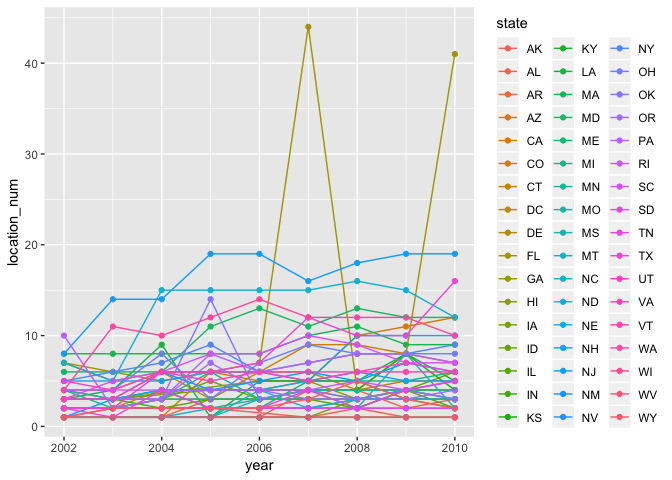
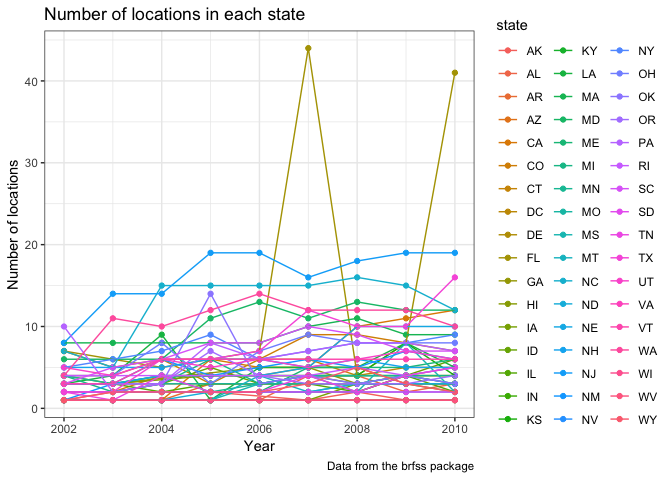
change properties of tables

diff --git a/p8105_hw3_ym2715.md b/p8105_hw3_ym2715.md
@@ -28,16 +28,18 @@ brfss_overall_health %>%
   mutate(location_num = n()) %>% 
   distinct(state, location_num) %>% 
   filter(location_num == 7) %>% 
-  knitr::kable()  
+  knitr::kable(col.names = c("State", "Number of locations"), align = "c")  
 ```
 
-| state |  location\_num|
-|:------|--------------:|
-| CT    |              7|
-| FL    |              7|
-| NC    |              7|
+| State | Number of locations |
+|:-----:|:-------------------:|
+|   CT  |          7          |
+|   FL  |          7          |
+|   NC  |          7          |
 
 In 2002, CT, FL, NC were observed at 7 locations.
+
+Question 2
 
 ``` r
 spaghetti = brfss_overall_health %>% 
@@ -49,10 +51,19 @@ spaghetti = brfss_overall_health %>%
 
 ggplot(spaghetti, aes(x= year, y = location_num, color = state)) +
   geom_point() +
-  geom_line()
+  geom_line() +
+  labs(
+    title = "Number of locations in each state",
+    y = "Number of locations",
+    x = "Year",
+    caption = "Data from the brfss package"
+  ) +
+  theme_bw()
 ```
 
 ![](p8105_hw3_ym2715_files/figure-markdown_github/problem1_q2-1.png)
+
+Question 3
 
 ``` r
 ny_response = brfss_overall_health %>% 
@@ -63,23 +74,131 @@ ny_mean = aggregate(ny_response[, 6], list(ny_response$location_desc), mean) %>%
   rename(mean = data_value, location = Group.1)
 ny_sd = aggregate(ny_response[, 6], list(ny_response$location_desc), sd) %>% 
   rename(sd = data_value, location = Group.1)
-ny_mean_sd = left_join(ny_mean, ny_sd, by = "location")
+ny_mean_sd = left_join(ny_mean, ny_sd, by = "location") %>% 
+  mutate(mean = round(mean, digits = 1), sd = round(sd, digits = 2))
 
-knitr::kable(ny_mean_sd)
+knitr::kable(ny_mean_sd, format = "html", align = "l", caption = "Mean and sd of “Excellent” responses across locations in NY State")
 ```
 
-| location                |      mean|         sd|
-|:------------------------|---------:|----------:|
-| NY - Bronx County       |  17.60000|         NA|
-| NY - Erie County        |  17.20000|         NA|
-| NY - Kings County       |  20.36667|  1.7672955|
-| NY - Monroe County      |  22.40000|         NA|
-| NY - Nassau County      |  24.93333|  2.8219379|
-| NY - New York County    |  27.50000|  1.5394804|
-| NY - Queens County      |  19.63333|  1.3576941|
-| NY - Suffolk County     |  24.10000|  3.2787193|
-| NY - Westchester County |  26.45000|  0.6363961|
-
+<table>
+<caption>
+Mean and sd of “Excellent” responses across locations in NY State
+</caption>
+<thead>
+<tr>
+<th style="text-align:left;">
+location
+</th>
+<th style="text-align:left;">
+mean
+</th>
+<th style="text-align:left;">
+sd
+</th>
+</tr>
+</thead>
+<tbody>
+<tr>
+<td style="text-align:left;">
+NY - Bronx County
+</td>
+<td style="text-align:left;">
+17.6
+</td>
+<td style="text-align:left;">
+NA
+</td>
+</tr>
+<tr>
+<td style="text-align:left;">
+NY - Erie County
+</td>
+<td style="text-align:left;">
+17.2
+</td>
+<td style="text-align:left;">
+NA
+</td>
+</tr>
+<tr>
+<td style="text-align:left;">
+NY - Kings County
+</td>
+<td style="text-align:left;">
+20.4
+</td>
+<td style="text-align:left;">
+1.77
+</td>
+</tr>
+<tr>
+<td style="text-align:left;">
+NY - Monroe County
+</td>
+<td style="text-align:left;">
+22.4
+</td>
+<td style="text-align:left;">
+NA
+</td>
+</tr>
+<tr>
+<td style="text-align:left;">
+NY - Nassau County
+</td>
+<td style="text-align:left;">
+24.9
+</td>
+<td style="text-align:left;">
+2.82
+</td>
+</tr>
+<tr>
+<td style="text-align:left;">
+NY - New York County
+</td>
+<td style="text-align:left;">
+27.5
+</td>
+<td style="text-align:left;">
+1.54
+</td>
+</tr>
+<tr>
+<td style="text-align:left;">
+NY - Queens County
+</td>
+<td style="text-align:left;">
+19.6
+</td>
+<td style="text-align:left;">
+1.36
+</td>
+</tr>
+<tr>
+<td style="text-align:left;">
+NY - Suffolk County
+</td>
+<td style="text-align:left;">
+24.1
+</td>
+<td style="text-align:left;">
+3.28
+</td>
+</tr>
+<tr>
+<td style="text-align:left;">
+NY - Westchester County
+</td>
+<td style="text-align:left;">
+26.4
+</td>
+<td style="text-align:left;">
+0.64
+</td>
+</tr>
+</tbody>
+</table>
 Problem2
 --------
 
@@ -87,6 +206,8 @@ Problem2
 instacart = p8105.datasets::instacart %>% 
   janitor::clean_names()
 ```
+
+Question 1
 
 ``` r
 aisle_order = instacart %>% 
@@ -98,6 +219,10 @@ aisle_order = instacart %>%
 ```
 
 There are 134 aisles, and fresh vegetables is the onr that most items ordered from.
+
+Question 2
+
+Question 3
 
 ``` r
 popular_item = instacart %>% 
@@ -111,14 +236,63 @@ popular_item = instacart %>%
 popular_item %>% 
   group_by(aisle) %>%
   summarize(max_item_name = product_name[which.max(item_count)], max_item_count = max(item_count)) %>% 
-  knitr::kable()
+  knitr::kable(format = "html",col.names = c("Aisle", "Most popular item", "Count"), align = "l", caption = "Most popular item in these three aisles")
 ```
 
-| aisle                      | max\_item\_name                               |  max\_item\_count|
-|:---------------------------|:----------------------------------------------|-----------------:|
-| baking ingredients         | Light Brown Sugar                             |               499|
-| dog food care              | Snack Sticks Chicken & Rice Recipe Dog Treats |                30|
-| packaged vegetables fruits | Organic Baby Spinach                          |              9784|
+<table>
+<caption>
+Most popular item in these three aisles
+</caption>
+<thead>
+<tr>
+<th style="text-align:left;">
+Aisle
+</th>
+<th style="text-align:left;">
+Most popular item
+</th>
+<th style="text-align:left;">
+Count
+</th>
+</tr>
+</thead>
+<tbody>
+<tr>
+<td style="text-align:left;">
+baking ingredients
+</td>
+<td style="text-align:left;">
+Light Brown Sugar
+</td>
+<td style="text-align:left;">
+499
+</td>
+</tr>
+<tr>
+<td style="text-align:left;">
+dog food care
+</td>
+<td style="text-align:left;">
+Snack Sticks Chicken & Rice Recipe Dog Treats
+</td>
+<td style="text-align:left;">
+30
+</td>
+</tr>
+<tr>
+<td style="text-align:left;">
+packaged vegetables fruits
+</td>
+<td style="text-align:left;">
+Organic Baby Spinach
+</td>
+<td style="text-align:left;">
+9784
+</td>
+</tr>
+</tbody>
+</table>
+Question 4
 
 ``` r
 apple_and_ice = instacart %>% 
@@ -140,19 +314,82 @@ apple_and_ice$order_dow = recode(apple_and_ice$order_dow,
 apple_and_ice %>% 
   rename(day_of_week = order_dow,
          order_time = mean_hour) %>% 
-  knitr::kable()
+  knitr::kable(format = "html",col.names = c("Day of a week", "Average clock time of order"), align = "c", caption = "Average clock that Pink Lady Apples and Coffee Ice Cream are ordered")
 ```
 
-| day\_of\_week |  order\_time|
-|:--------------|------------:|
-| Sunday        |         13.6|
-| Monday        |         12.2|
-| Tuesday       |         12.8|
-| Wednesday     |         14.7|
-| Thursday      |         13.2|
-| Friday        |         12.6|
-| Saturday      |         13.2|
-
+<table>
+<caption>
+Average clock that Pink Lady Apples and Coffee Ice Cream are ordered
+</caption>
+<thead>
+<tr>
+<th style="text-align:center;">
+Day of a week
+</th>
+<th style="text-align:center;">
+Average clock time of order
+</th>
+</tr>
+</thead>
+<tbody>
+<tr>
+<td style="text-align:center;">
+Sunday
+</td>
+<td style="text-align:center;">
+13.6
+</td>
+</tr>
+<tr>
+<td style="text-align:center;">
+Monday
+</td>
+<td style="text-align:center;">
+12.2
+</td>
+</tr>
+<tr>
+<td style="text-align:center;">
+Tuesday
+</td>
+<td style="text-align:center;">
+12.8
+</td>
+</tr>
+<tr>
+<td style="text-align:center;">
+Wednesday
+</td>
+<td style="text-align:center;">
+14.7
+</td>
+</tr>
+<tr>
+<td style="text-align:center;">
+Thursday
+</td>
+<td style="text-align:center;">
+13.2
+</td>
+</tr>
+<tr>
+<td style="text-align:center;">
+Friday
+</td>
+<td style="text-align:center;">
+12.6
+</td>
+</tr>
+<tr>
+<td style="text-align:center;">
+Saturday
+</td>
+<td style="text-align:center;">
+13.2
+</td>
+</tr>
+</tbody>
+</table>
 Problem3
 --------
 
